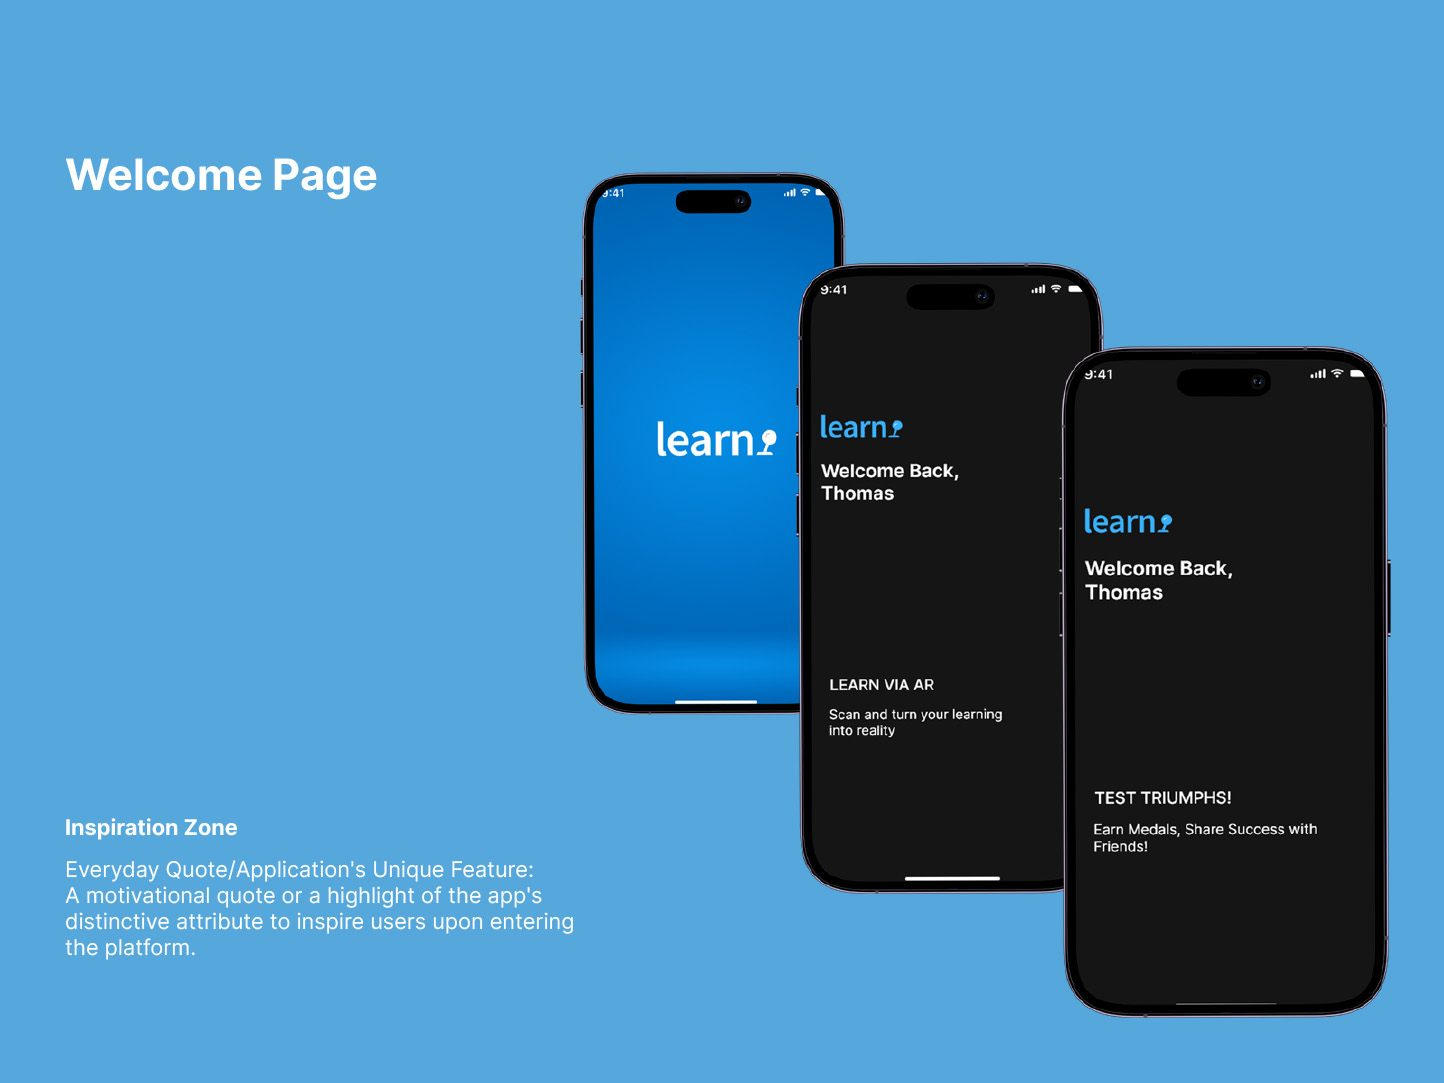
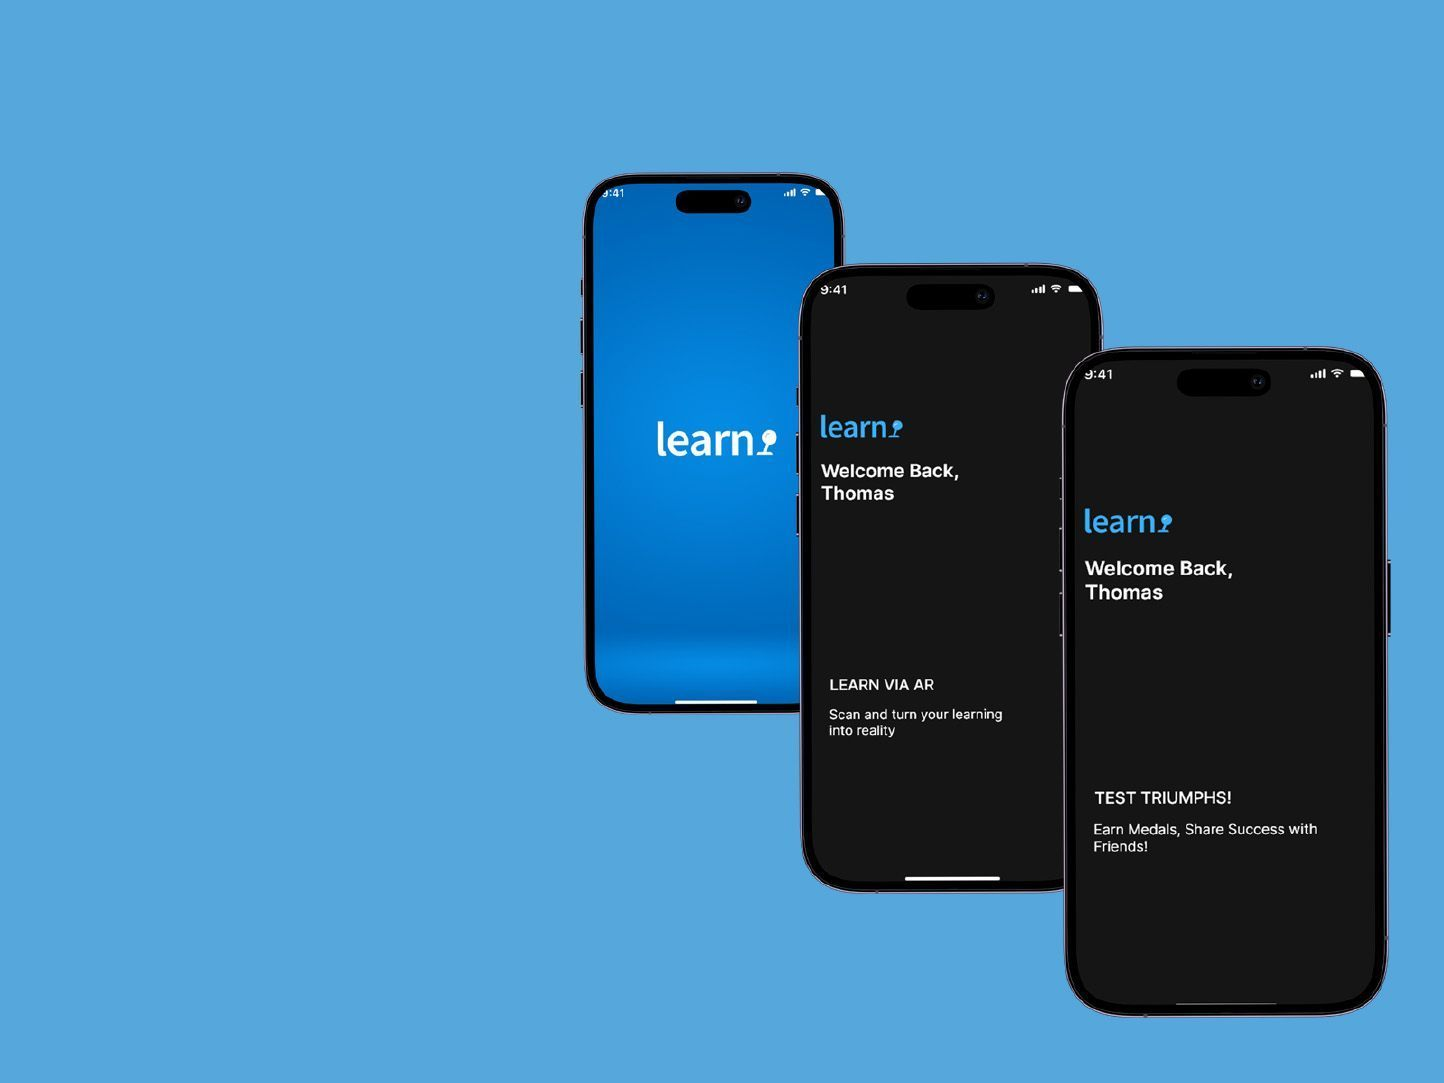
Forum's tile plays its animation; LearnARcade's annotations cleared
The Forum panel in Selected work showed a still of the brand applications
while the animation it was made from sat one page away. It now plays that
animation in place, inheriting the same crop, radius, shadow and hover
scale as the stills so the row still reads as one component. It runs only
while on screen, and does not auto-play at all for reduced motion.

LearnARcade's page-09 had two pieces of slide annotation on it: the
"Welcome Page" title and the "Inspiration Zone" block. Both are painted
out against the flat background, which samples #56A7DC uniformly across
the canvas, so there is no seam. The panel is now the blue field and the
three screens, nothing else. I had briefly split this into a separate
cover file to keep the annotation on the case-study spread; with the text
going from both, that file was redundant and is gone.

Changed region(s): [[0.0312, 0.7618, 0.4051, 0.8837], [0.0312, 0.1219, 0.2805, 0.1828]]

diff --git a/outputs/index.html b/outputs/index.html
@@ -530,6 +530,21 @@
     transition:transform .7s cubic-bezier(.2,.7,.2,1);
   }
   .stack-item:hover .stack-media img{ transform:scale(1.025); }
+  /* The Forum panel plays its logo animation in place of a still, so the
+     video has to inherit exactly what the images get. */
+  .stack-media video{
+    width:100%; height:100%;
+    object-fit:cover; display:block;
+    border-radius:10px;
+    box-shadow:0 22px 48px rgba(12,12,16,.26);
+    background:#0f0f12;
+    transition:transform .7s cubic-bezier(.2,.7,.2,1);
+  }
+  .stack-item:hover .stack-media video{ transform:scale(1.025); }
+  @media (prefers-reduced-motion: reduce){
+    .stack-media video{ transition:none !important; }
+    .stack-item:hover .stack-media video{ transform:none !important; }
+  }
   /* LearnARcade's source file is over the export limit, so its panel
      carries the initials until the visuals can be added. */
   .stack-media.is-type{ place-items:center; }
@@ -795,7 +810,7 @@ a.mark::before,a.back::before,.nav-links a::before,.top-nav a::before,.top a::be
   </a>
 
   <a class="stack-item" href="forum-by-rego.html" style="--tint:#f6e7dd;--tint-dark:#2a1a12">
-    <div class="stack-media"><img loading="lazy" src="assets/forum-by-rego/page-10.jpg" alt="Forum by Rego brand applications"></div>
+    <div class="stack-media"><video class="stack-video" src="assets/forum-by-rego/logo-animation.mp4" autoplay muted loop playsinline preload="metadata" aria-label="Forum by Rego logo animation"></video></div>
     <div class="stack-row">
       <div class="stack-names">
         <h3>Forum by Rego</h3>
@@ -1192,6 +1207,27 @@ a.mark::before,a.back::before,.nav-links a::before,.top-nav a::before,.top a::be
   sync();
 })();
 </script>
+<script>
+(function(){
+  var v = document.querySelector('.stack-video');
+  if (!v) return;
+  try {
+    if (window.matchMedia('(prefers-reduced-motion: reduce)').matches){
+      v.removeAttribute('autoplay');
+      v.pause();
+      return;
+    }
+  } catch(e){}
+  /* Only run it while it is on screen; a looping video in a panel nobody
+     is looking at is just battery. */
+  if ('IntersectionObserver' in window){
+    new IntersectionObserver(function(entries){
+      entries[0].isIntersecting ? v.play().catch(function(){}) : v.pause();
+    }, { threshold: 0.15 }).observe(v);
+  }
+})();
+</script>
 </body>
+
 
 </html>
